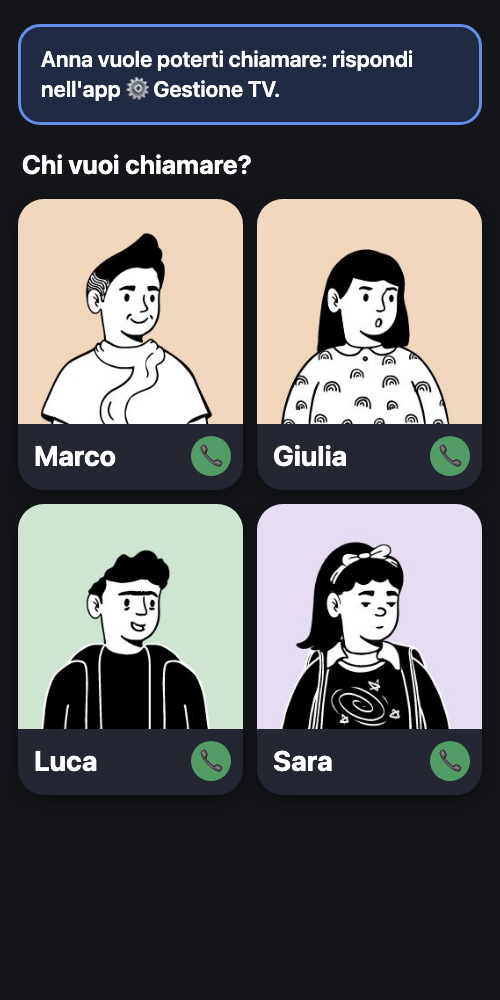
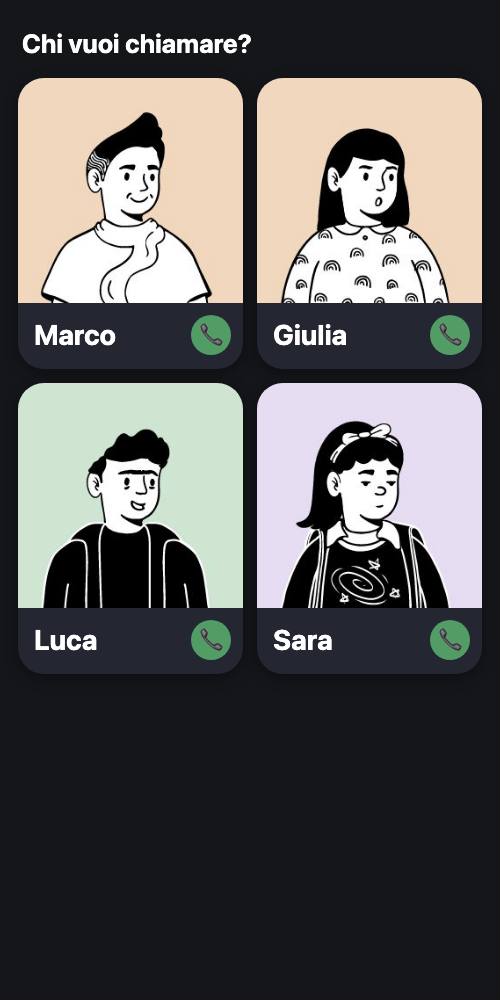
Elder Care TV page: clean contact grid, versioned image links

diff --git a/eldercare-tv/index.html b/eldercare-tv/index.html
@@ -45,7 +45,7 @@
       </div>
       <figure class="tv" style="margin:0">
         <div class="tv-set">
-          <img src="img/tv-ring.png" width="1280" height="720" alt="La TV mostra: Ti sta chiamando Marco">
+          <img src="img/tv-ring.png?v=3" width="1280" height="720" alt="La TV mostra: Ti sta chiamando Marco">
           <div class="tv-led" aria-hidden="true"></div>
         </div>
         <div class="tv-stand" aria-hidden="true"></div>
@@ -128,7 +128,7 @@
         <li>
           <svg class="scene" viewBox="110 0 640 500" aria-hidden="true">
             <use href="#room-back" width="800" height="500"/>
-            <svg x="230" y="78" width="340" height="191" viewBox="0 0 1280 720" preserveAspectRatio="xMidYMid slice"><image href="img/tv-ring.png" width="1280" height="720"/></svg>
+            <svg x="230" y="78" width="340" height="191" viewBox="0 0 1280 720" preserveAspectRatio="xMidYMid slice"><image href="img/tv-ring.png?v=3" width="1280" height="720"/></svg>
             <use href="#room-front" width="800" height="500"/>
             <path d="M208 140 q-16 24 0 48 M192 128 q-26 36 0 72" stroke="#23784a" stroke-width="5" fill="none" stroke-linecap="round"/>
             <g><path d="M530 102 L516 128 L568 102Z" fill="#fff" stroke="#142019" stroke-width="2.5" stroke-linejoin="round"/>
@@ -143,7 +143,7 @@
           <svg class="scene" viewBox="110 0 640 500" aria-hidden="true">
             <use href="#room-back" width="800" height="500"/>
             <svg x="230" y="78" width="340" height="191" viewBox="0 0 1280 720" preserveAspectRatio="xMidYMid slice"><rect width="1280" height="720" fill="#f5d6b9"/>
-              <image href="img/avatar-marco.jpg" x="280" y="0" width="720" height="720"/>
+              <image href="img/avatar-marco.jpg?v=3" x="280" y="0" width="720" height="720"/>
               <rect x="1056" y="547" width="202" height="151" rx="11" fill="#3b4a44" stroke="rgba(255,255,255,.75)" stroke-width="4"/>
               <path d="M1092 696 q65 -62 130 0z" fill="#a8707e"/>
               <circle cx="1157" cy="626" r="36" fill="#e2b89a"/>
@@ -215,8 +215,8 @@
           </p>
         </div>
         <div class="feature-media">
-          <div class="phone"><img src="img/home-grid.png" width="500" height="1000" alt="App Chiamate: card grandi con i nomi Marco, Giulia, Luca e Sara"></div>
-          <div class="phone"><img src="img/caller-main.png" width="500" height="1000" alt="App del familiare: pulsante Chiama e stato della TV"></div>
+          <div class="phone"><img src="img/home-grid.png?v=3" width="500" height="1000" alt="App Chiamate: card grandi con i nomi Marco, Giulia, Luca e Sara"></div>
+          <div class="phone"><img src="img/caller-main.png?v=3" width="500" height="1000" alt="App del familiare: pulsante Chiama e stato della TV"></div>
         </div>
       </div>
     </div>
@@ -236,7 +236,7 @@
         </div>
         <div class="feature-media">
           <div class="tv-small">
-            <div class="tv-set"><img src="img/tv-watch.png" width="1280" height="720" alt="La TV mostra la scritta: Telecamera accesa, Marco sta guardando"></div>
+            <div class="tv-set"><img src="img/tv-watch.png?v=3" width="1280" height="720" alt="La TV mostra la scritta: Telecamera accesa, Marco sta guardando"></div>
             <div class="tv-stand" aria-hidden="true"></div>
           </div>
         </div>
